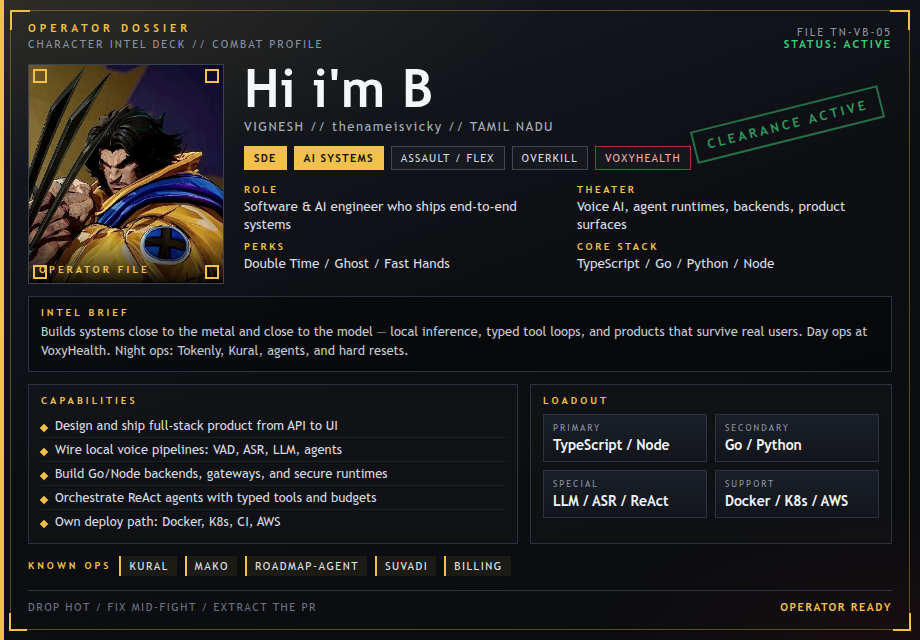
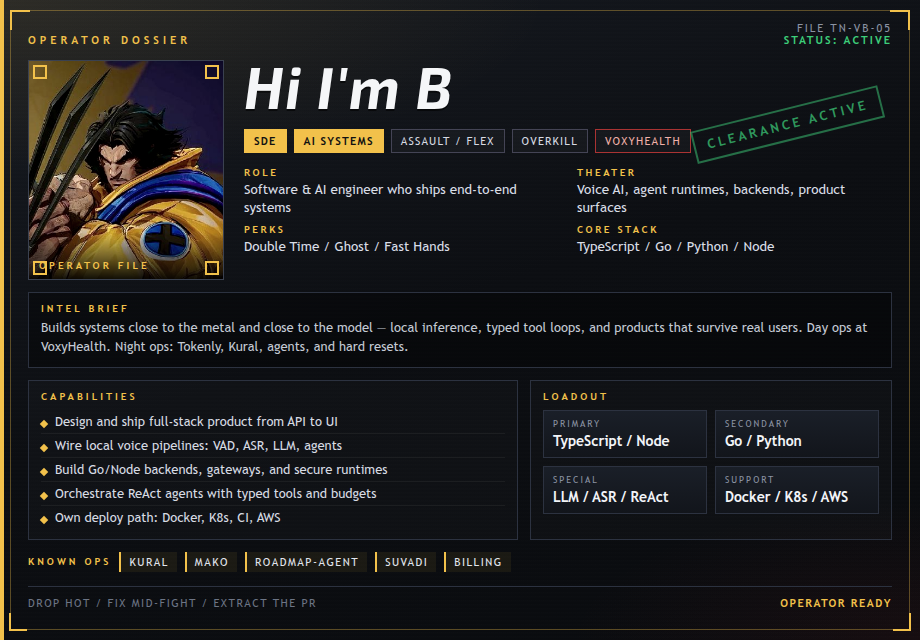
Simplify profile README to the dossier card only
Drop the link/badge row under the card, and tighten the title treatment on the operator deck.

diff --git a/dossier.html b/dossier.html
@@ -1,6 +1,13 @@
 <!DOCTYPE html>
 <html><head><meta charset="utf-8"/>
 <style>
+
+  @font-face {
+    font-family: 'COD Display';
[1 lines of base64/hex data omitted]
+    font-weight: 700;
+    font-style: italic;
+  }
   * { box-sizing: border-box; margin: 0; padding: 0; }
   html, body { background: #050607; margin: 0; padding: 0; }
   .card {
@@ -80,13 +87,13 @@
     font-size: 10px; letter-spacing: 3px; color: #f2c14b; font-weight: 700;
   }
   .id .name {
-    font-size: 52px; font-weight: 800; letter-spacing: .5px; line-height: .95; color: #f5f6f8;
-    text-transform: none;
+    font-family: 'COD Display', 'Exo 2', 'Arial Narrow', sans-serif;
+    font-size: 58px; font-weight: 700; font-style: italic;
+    letter-spacing: 1.5px; line-height: .9; color: #f5f6f8;
+    text-shadow: 0 2px 0 rgba(0,0,0,.55);
+    display: inline-block;
   }
-  .id .aka {
-    margin-top: 6px; font-size: 13px; letter-spacing: 1.5px; color: #a7afbd;
-  }
-  .tags { margin-top: 12px; display: flex; flex-wrap: wrap; gap: 7px; }
+  .tags { margin-top: 16px; display: flex; flex-wrap: wrap; gap: 7px; }
   .tag {
     font-size: 11px; letter-spacing: 1.2px; padding: 5px 9px; border: 1px solid #445;
     color: #d7dbe3; background: rgba(255,255,255,.03);
@@ -171,7 +178,6 @@
     <div class="header">
       <div class="left">
         <div class="k">OPERATOR DOSSIER</div>
-        <div class="sub">CHARACTER INTEL DECK  //  COMBAT PROFILE</div>
       </div>
       <div class="right">
         FILE TN-VB-05<br/>
@@ -188,8 +194,7 @@
         <div class="cap">OPERATOR FILE</div>
       </div>
       <div class="id">
-        <div class="name">Hi i'm B</div>
-        <div class="aka">VIGNESH  //  thenameisvicky  //  TAMIL NADU</div>
+        <div class="name">Hi I'm B</div>
         <div class="tags">
           <span class="tag fill">SDE</span>
           <span class="tag fill">AI SYSTEMS</span>

diff --git a/README.md b/README.md
@@ -1,17 +1,3 @@
 <p align="center">
-  <img src="./operator-dossier.png" alt="Operator Dossier — Hi i'm B" width="920" />
-</p>
-
-<p align="center">
-  <a href="https://github.com/thenameisvicky"><img src="https://img.shields.io/badge/GitHub-thenameisvicky-0a0b0e?style=for-the-badge&logo=github&logoColor=f2c14b&labelColor=12141a" alt="GitHub"/></a>
-  <a href="https://vigneshwaran.tech/"><img src="https://img.shields.io/badge/Portfolio-vigneshwaran.tech-0a0b0e?style=for-the-badge&labelColor=12141a&color=b8861f" alt="Portfolio"/></a>
-  <a href="https://www.linkedin.com/in/vigneshwaranbstar"><img src="https://img.shields.io/badge/LinkedIn-0A66C2?style=for-the-badge&logo=linkedin&logoColor=white&labelColor=12141a" alt="LinkedIn"/></a>
-</p>
-
-<p align="center">
-  <a href="https://github.com/thenameisvicky/voice"><img src="https://img.shields.io/badge/Kural-voice-12141a?style=flat-square&labelColor=f2c14b" alt="Kural"/></a>
-  <a href="https://github.com/thenameisvicky/mako"><img src="https://img.shields.io/badge/mako-Go%20runtime-12141a?style=flat-square&labelColor=b8861f" alt="mako"/></a>
-  <a href="https://github.com/thenameisvicky/roadmap-agent"><img src="https://img.shields.io/badge/roadmap--agent-ReAct-12141a?style=flat-square&labelColor=6e7585" alt="roadmap-agent"/></a>
-  <a href="https://github.com/thenameisvicky/Suvadi"><img src="https://img.shields.io/badge/Suvadi-local%20GPT-12141a?style=flat-square&labelColor=4aa3df" alt="Suvadi"/></a>
-  <a href="https://github.com/thenameisvicky/IPD-OPD-Billing"><img src="https://img.shields.io/badge/billing-Prisma-12141a?style=flat-square&labelColor=c45c4a" alt="billing"/></a>
+  <img src="./operator-dossier.png" alt="Operator Dossier — Hi I'm B" width="920" />
 </p>
